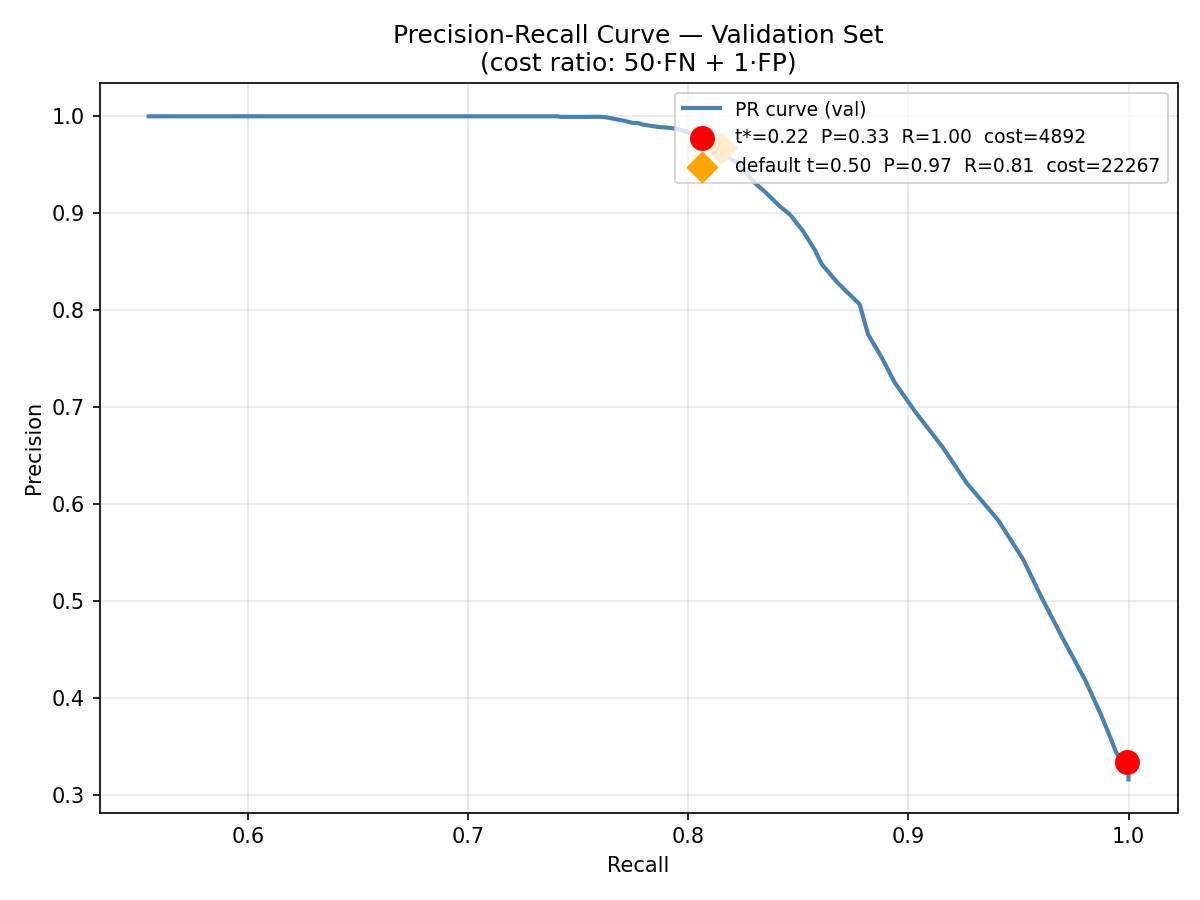
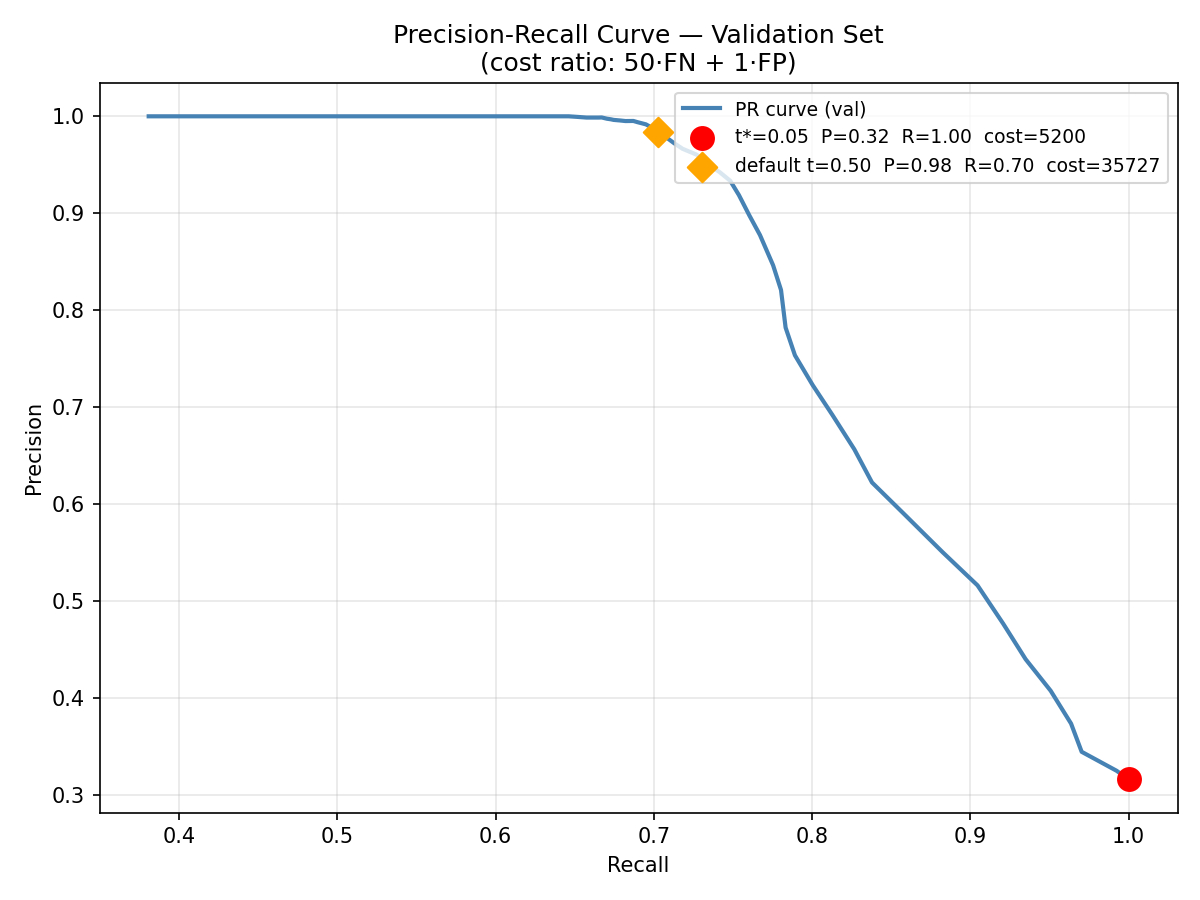
feat(experiment): distributed-SNR retrain — F1 0.82 at t*=0.43, below 0.85 prediction bar

diff --git a/index.html b/index.html
@@ -228,7 +228,7 @@
         const r = m.cost_ratio;
 
         document.getElementById('perf-subtitle').textContent =
-          `t*=${t}, cost ratio r=${r} (${r}·FN + FP). Threshold selected by sweeping validation set; numbers below are held-out test set.`;
+          `t*=${t}, cost ratio r=${r} (${r}·FN + FP). Distributed-SNR data. Threshold selected by sweeping validation set for max F1; numbers below are held-out test set.`;
 
         document.getElementById('m-cost').textContent =
           m.total_cost.toLocaleString();
@@ -245,7 +245,7 @@
           m.rul_rmse.toFixed(1);
 
         document.getElementById('cap-pr').textContent =
-          `Precision-recall curve (validation set). Red dot: t*=${t}, cost-minimizing operating point under r=${r}. Orange diamond: default t=0.50.`;
+          `Precision-recall curve (validation set). Red dot: t*=${t}, max-F1 operating point on distributed-SNR data. Orange diamond: default t=0.50.`;
         document.getElementById('cap-cm').textContent =
           `Confusion matrix at t*=${t}. ${(m.recall * 100).toFixed(1)}% recall, ${m.fn} missed failures, ${m.fp.toLocaleString()} false positives.`;
       })

diff --git a/src/modeling/evaluate.py b/src/modeling/evaluate.py
@@ -2,7 +2,8 @@ import json
 import torch
 import torch.nn.functional as F
 import os
-from sklearn.metrics import accuracy_score, precision_score, recall_score, mean_squared_error
+import pandas as pd
+from sklearn.metrics import accuracy_score, precision_score, recall_score, f1_score, mean_squared_error
 import numpy as np
 from train_transformer import EngineDataset, TransformerModel
 from config import ANOMALY_THRESHOLD, COST_FN, COST_FP
@@ -14,9 +15,17 @@ DATA_DIR = ROOT / 'data'
 MODELS_DIR = ROOT / 'models'
 
 def main():
-    # Load test loader
     test_dataset = EngineDataset(DATA_DIR / 'test_sensors.csv')
     test_loader = DataLoader(test_dataset, batch_size=64, shuffle=False)
+
+    # Build per-window failure modes in the same groupby order EngineDataset uses
+    test_df = pd.read_csv(DATA_DIR / 'test_sensors.csv')
+    window_modes = []
+    for _, group in test_df.groupby('engine_id'):
+        mode = group['failure_mode'].iloc[0]
+        n_windows = len(group) - test_dataset.sequence_length
+        window_modes.extend([mode] * n_windows)
+    window_modes = np.array(window_modes)
     input_dim = test_dataset.num_features
 
     # Load model
@@ -56,12 +65,20 @@ def main():
     fp = int(((anom_pred_arr == 1) & (anom_true_arr == 0)).sum())
     cost = COST_FN * fn + COST_FP * fp
 
+    f1 = f1_score(anom_true_arr, anom_pred_arr, zero_division=0)
+
     print(f"Transformer Test Metrics (t*={ANOMALY_THRESHOLD}, r=50):")
     print(f"  Accuracy:    {acc:.4f}")
     print(f"  Precision:   {prec:.4f}")
     print(f"  Recall:      {rec:.4f}")
+    print(f"  F1:          {f1:.4f}")
     print(f"  FN:          {fn}  FP: {fp}  total_cost: {cost}")
     print(f"  RUL RMSE:    {rmse:.2f} cycles")
+    print(f"  Per-mode recall:")
+    for mode in sorted(set(window_modes)):
+        sel = window_modes == mode
+        r = recall_score(anom_true_arr[sel], anom_pred_arr[sel], zero_division=0)
+        print(f"    {mode:22s} recall {r:.4f}   n={sel.sum():5d}")
 
     predictions = {
         'anom_true': [int(x) for x in anom_true],

diff --git a/src/inference/integrate_llm.py b/src/inference/integrate_llm.py
@@ -1,11 +1,14 @@
+import sys
 import json
 import torch
 import pandas as pd
+from pathlib import Path
+sys.path.insert(0, str(Path(__file__).parent.parent / 'modeling'))
+
 from modeling.train_transformer import TransformerModel
 from google import genai
 from dotenv import load_dotenv
 import os
-from pathlib import Path
 
 ROOT = Path(__file__).parent.parent.parent
 DATA_DIR = ROOT / 'data'
@@ -56,7 +59,7 @@ def call_gemini(prompt: str) -> str:
         # Do NOT touch `response` here; it might not exist
         raise
 
-model = TransformerModel(input_dim=14)
+model = TransformerModel(input_dim=5)
 model.load_state_dict(torch.load(MODELS_DIR / 'transformer_model.pth'))
 model.eval()
 
@@ -82,14 +85,7 @@ Refine the prediction: Output failure mode and adjusted RUL as JSON
     return response_text  
 df_test = pd.read_csv(DATA_DIR / 'test_sensors.csv')
 
-sensor_cols = [
-    'setting_1', 'setting_2',
-    'T2_total_temp', 'T24_total_temp', 'T30_total_temp', 'T50_total_temp',
-    'P15_static_pressure', 'P30_total_pressure',
-    'nf_fan_speed', 'nc_core_speed', 'epr_engine_pressure_ratio',
-    'ps30_static_pressure', 'farb_fuel_air_ratio_burner',
-    'vibration'
-]
+sensor_cols = ['vibration', 'T50', 'P30', 'Nf', 'fuel_flow']
 
 # Take first sequence (50 timesteps)
 sample_seq = df_test.iloc[0:50][sensor_cols].values

diff --git a/src/inference/app.py b/src/inference/app.py
@@ -1,13 +1,16 @@
+import sys
+from pathlib import Path
+sys.path.insert(0, str(Path(__file__).parent.parent / 'modeling'))
+
 from flask import Flask, request, jsonify
 import torch
-from pathlib import Path
 from modeling.train_transformer import TransformerModel
 from inference.integrate_llm import llm_enhance
 
 app = Flask(__name__)
 
 MODEL_PATH = Path(__file__).parent.parent.parent / 'models' / 'transformer_model.pth'
-INPUT_DIM = 14
+INPUT_DIM = 5
 
 if not torch.cuda.is_available():
     print("Warning: Running on CPU — performance may be limited.")

diff --git a/src/visualization/generate_plots.py b/src/visualization/generate_plots.py
@@ -53,7 +53,11 @@ def plot_rul_scatter():
 
 
 def plot_precision_recall_curve():
-    with open(MODELS_DIR / 'sweep_results.json') as f:
+    sweep_path = MODELS_DIR / 'sweep_results.json'
+    if not sweep_path.exists():
+        print("Skipping precision-recall curve — sweep_results.json not found. Run: PYTHONPATH=src python src/modeling/threshold_sweep.py")
+        return
+    with open(sweep_path) as f:
         data = json.load(f)
 
     sweep   = data['sweep']

diff --git a/src/modeling/config.py b/src/modeling/config.py
@@ -1,5 +1,5 @@
 # t* from threshold sweep on validation under cost ratio r=50 (FN costs 50x FP)
-ANOMALY_THRESHOLD = 0.22
+ANOMALY_THRESHOLD = 0.43
 
 COST_FN = 50  # missed failure: repairs, AOG loss, secondary damage
 COST_FP = 1   # false alarm: unnecessary inspection

diff --git a/docs/v0.2-project-log.md b/docs/v0.2-project-log.md
@@ -138,3 +138,25 @@ Interpretation bands:
 - 0.85–0.89 => justifies the architecture
 - 0.80–0.84 => helps but doesn't justify under this design
 - Below 0.80 => doesn't earn its place
+
+What landed today:
+- Pre-registered prediction committed before retrain.
+- Transformer retrained on distributed-SNR data (DISTRIBUTED=True, old checkpoint deleted).
+- Threshold re-swept on distributed model. Probability floor at 0.2263, effective operating range 0.30 to 0.50, max F1 at t=0.43. ANOMALY_THRESHOLD updated to 0.43 in config.py.
+- Per-mode recall added to evaluate.py.
+- Bug fixes: generate_plots.py degrades gracefully without sweep_results.json. Inference layer fixed for import path and stale input_dim=14.
+
+Result against prediction:
+- Aggregate F1: 0.8210 at t=0.43. Falls in the 0.80 to 0.84 band. The Transformer beat the gate but did not clear the prediction bar.
+- Per-mode recall all below the gate baseline across all five modes.
+- FOD: Transformer 0.7017 vs gate 0.7550. Largest regression.
+- The Transformer's lift over the gate came from precision (0.9124 vs 0.8233), not recall. For r=50, the gate is the better instrument on distributed-SNR data.
+- Probability floor at 0.2263. The model never outputs below that value, so every window looks at least somewhat anomalous to it. Training converged normally. The issue is that the output probabilities are shifted upward, not that the model failed to learn.
+
+What's open (carrying to tomorrow):
+- Deep interpretation and writeup not started. Numbers are in hand. Analysis is tomorrow's work.
+- assets/metrics.json gets overwritten every time evaluate.py runs. The concentrated-SNR result was preserved manually as metrics_v021.json, but this is fragile. A cleaner approach would be metrics_concentrated.json and metrics_distributed.json so both baselines are stable and clearly labeled. Not changed yet.
+- Case study page not started.
+
+What's next:
+- Friday: write the result against the prediction. Read per-mode recall first, aggregate second. Honest call on whether the architecture earns its place.

diff --git a/README.md b/README.md
@@ -63,7 +63,10 @@ python src/modeling/train_transformer.py
 # 4. Evaluate on the held-out test set
 python src/modeling/evaluate.py
 
-# 5. Generate plots (saves PNGs to assets/)
+# 5. Run threshold sweep (required before generate_plots.py — produces sweep_results.json for the PR curve)
+PYTHONPATH=src python src/modeling/threshold_sweep.py
+
+# 5a. Generate plots (saves PNGs to assets/)
 PYTHONPATH=src python src/visualization/generate_plots.py
 
 # 6. Start the Flask inference API